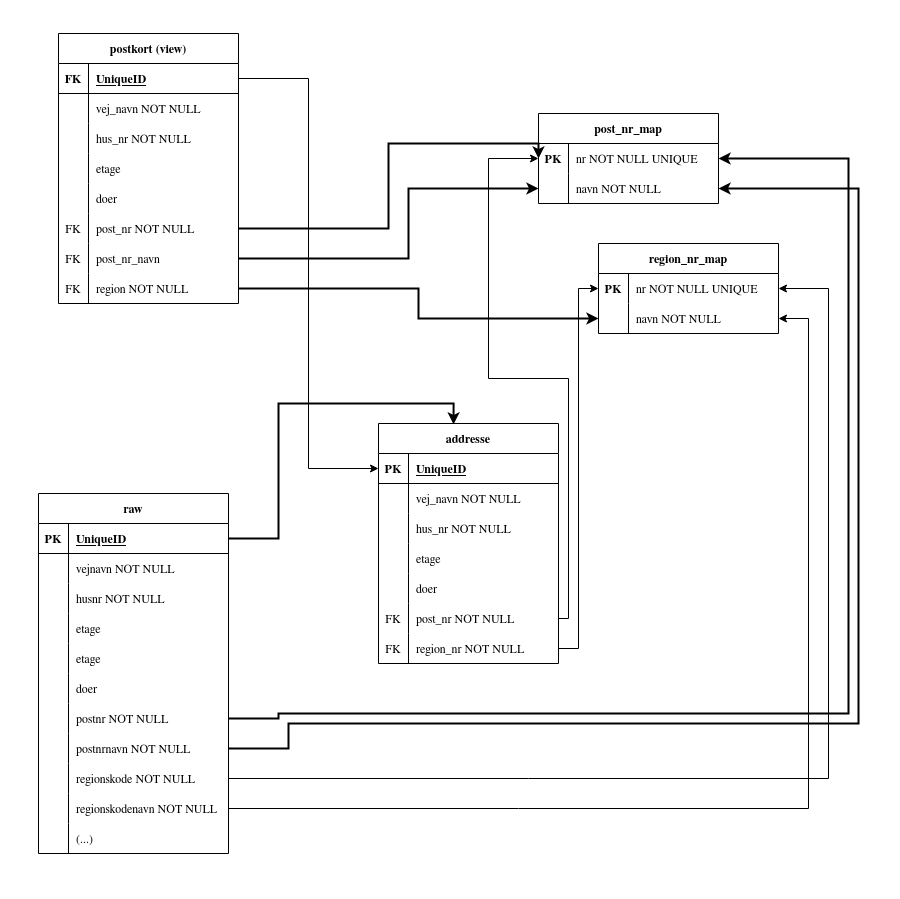
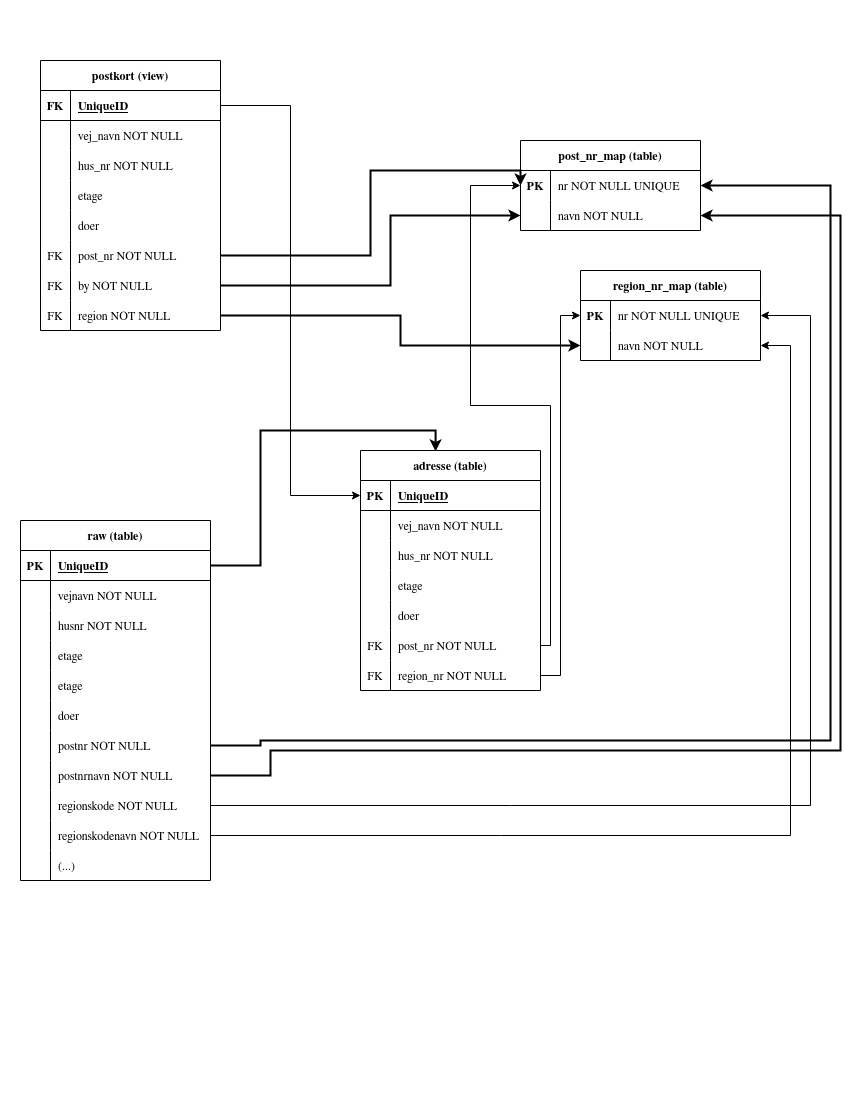
diagrams

Changed region(s): [[0.0306, 0.0311, 1.0, 0.9032]]

diff --git a/str-opg-01/import/db_api/utils/views.go b/str-opg-01/import/db_api/utils/views.go
@@ -16,7 +16,7 @@ func Postcard(db *sql.DB) {
 			adresse.id, adresse.vej_navn, 
 			adresse.hus_nr, adresse.etage, 
 			adresse.doer, adresse.post_nr, 
-			post_nr_map.navn AS post_nr_navn, 
+			post_nr_map.navn AS by, 
 			region_nr_map.navn AS region
 		FROM (adresse)
 		JOIN (post_nr_map) ON (adresse.post_nr = post_nr_map.nr)
